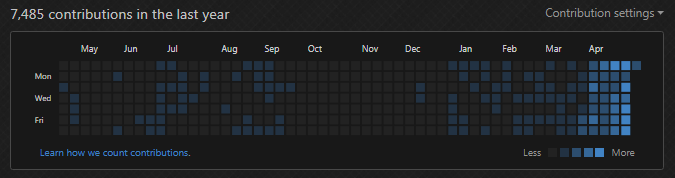
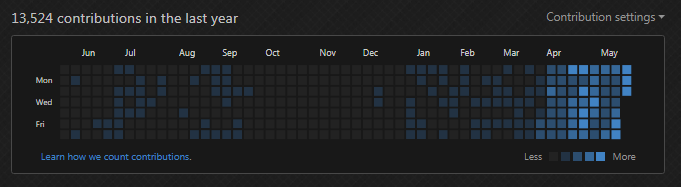
Add files via upload

diff --git a/system.js b/system.js
@@ -98,12 +98,18 @@ OneItem = function(prefix, id) {
 }
 
 // Translation system
+const LangName = {
+	"EN": "English",
+	"BR": "Português",
+	"ES": "Español"
+}
 const Translations = {
 	"EN": {
-		"me_0": "I am Tainã, also known as Tai. I am currently studying Computer Science in Brazil and after concluding the course I intend to go to Canada to master Physics and Astrophysics!",
-		"me_1": "This is my portfolio. Here you can find the programming languages I can decently code, also my biggest projects and the languages I speak nowadays.",
-		"me_2": "Go through the tabs below to know more about me and my skills.",
+		"me_0": "My name is Tainã Romani Lautenschlager Donda, also known as Lautenschlager or Tai. I am 17 and I am currently studying Computer Science at Uninove, in Brazil. I also have an informatic technician degree obtained in the educational institution ETEC Jaraguá.",
+		"me_1": "More than 3 years of experience with written translations (English and Spanish) and 2 years of experience with game and software development.",
+		"me_2": "Web and Desktop development using Lua, C#, C, Java, and JavaScript as main languages. Experienced with Wordpress websites. Game development using the platforms Microsoft XNA, Monogame, Unity (2D) and LÖVE 2D.",
 		
+		"title_me": "About me",
 		"title_prog": "Programming Languages",
 		"title_prj": "Projects",
 		"title_lang": "Idioms",
@@ -111,7 +117,7 @@ const Translations = {
 		
 		"open_source": "ALL MY PROJECTS ARE OPEN SOURCE!",
 		
-		"github": "More than 7,000 contributions in the last year on {0}!",
+		"github": "More than 10,000 contributions in the last year on {0}!",
 		"pastebin": "More than 27,000 unique views in the last two years on {0}!",
 		
 		"prj_1_0": "The game {0} was developed in C# and is based on an epic space battle with skills and different artificial intelligence enemies according to the elapsed time in game.",
@@ -128,10 +134,11 @@ const Translations = {
 		"prj_3_2": "The game is classified as a Real-Time Strategy (RTS) Indie game, because, besides the fact it's a Tower Defense (TD) game, few monetary resources were needed for its development. This game was developed in one week.",
 	},
 	"BR": {
-		"me_0": "Me chamo Tainã, também conhecido por Tai. Atualmente estudo Ciência da Computação no Brasil e depois de concluir o curso pretendo ir para o Canadá para mestrar em Física e Astrofísica!",
-		"me_1": "Este é meu portólio. Aqui você pode encontrar as linguagens de programação que posso utilizar decentemente, também meus maiores projetos e os idiomas que falo hoje em dia.",
-		"me_2": "Navegue nas abas abaixo para conhecer mais sobre mim e sobre minhas habilidades.",
+		"me_0": "Meu nome é Tainã Romani Lautenschlager Donda, também conhecido por Lautenschlager ou Tai. Tenho 17 anos e atualmente estudo Ciência da Computação na Uninove, no Brasil. Também tenho formação técnica em informática obtida pela instituição de ensino ETEC Jaraguá.",
+		"me_1": "Mais de 3 anos de experiência com traduções escritas (Inglês e Espanhol) e 2 anos de experiência com desenvolvimento de jogos e software.",
+		"me_2": "Desenvolvimento Web e Desktop com o uso de Lua, C#, C, Java e JavaScript como linguagens principais. Com experiência em sites Wordpress. Desenvolvimento de jogos utilizando as plataformas Microsoft XNA, Monogame, Unity (2D) e LÖVE 2D.",
 		
+		"title_me": "Sobre mim",
 		"title_prog": "Linguagens de Programação",
 		"title_prj": "Projetos",
 		"title_lang": "Idiomas",
@@ -139,7 +146,7 @@ const Translations = {
 		
 		"open_source": "TODOS OS MEUS PROJETOS SÃO OPEN SOURCE!",
 		
-		"github": "Mais de 7.000 contribuições no último ano no {0}!",
+		"github": "Mais de 10.000 contribuições no último ano no {0}!",
 		"pastebin": "Mais de 27.000 visualizações individuais nos últimos dois anos no {0}!",
 		
 		"prj_1_0": "O jogo {0} foi desenvolvido em C# e é baseado numa épica batalha espacial com habilidads e diferentes inimigos de inteligência artificial de acordo com o tempo de jogo.",
@@ -157,10 +164,11 @@ const Translations = {
 
 	},
 	"ES": {
-		"me_0": "Me llamo Tainã, también conocido como Tai. Actualmente estudio Ciencia de la Computación en Brasil y despues de concluir el curso pretendo ir a Canadá para hacer otros cursos de Física y Astrofísica!",
-		"me_1": "Este es mi portafolio. Acá puedes encontrar los lenguajes de programación que yo sé, también mis mayores proyectos y los idiomas que yo hablo hoy en dia.",
-		"me_2": "Vea las otras pestañas para conocer más de mí y de mis habilidades.",
+		"me_0": "Mi nombre es Tainã Romani Lautenschlager Donda, también conocido por Lautenschlager o Tai. Tengo 17 años y actualmente estoy estudiando Ciencias de la Computación en Uninove, Brasil. También tengo formación técnica en informática obtenida en la institución educativa ETEC Jaraguá.",
+		"me_1": "Más de 3 años de experiencia sobre traducción escrita (Inglés y Español) y 2 años de experiencia sobre desarrollamiento de juegos e softwares.",
+		"me_2": "Desarrollo Web y Desktop usando Lua, C#, C, Java y JavaScript como lenguajes principales. Con experiencia en sitios Wordpress. Desarrollo de juegos con las plataformas Microsoft XNA, Monogame, Unity (2D) y LÖVE 2D.",
 
+		"title_me": "Sobre mi",
 		"title_prog": "Lenguajes de Programación",
 		"title_prj": "Proyectos",
 		"title_lang": "Idiomas",
@@ -168,7 +176,7 @@ const Translations = {
 
 		"open_source": "TODOS MIS PROYECTOS SON OPEN SOURCE!",
 
-		"github": "Más de 7.000 contribuciones en el año pasado en {0}!",
+		"github": "Más de 10.000 contribuciones en el año pasado en {0}!",
 		"pastebin": "Más de 27.000 visualizaciones individuales en los dos últimos dos años en {0}!",
 
 		"prj_1_0": "El juego {0} fue desarrollado en C# y es basado en una batalla épica con habilidades y diferentes enemigos con inteligencia artificial de acuerdo con el tiempo de juego.",
@@ -185,11 +193,6 @@ const Translations = {
 		"prj_3_2": "El juego está clasificado como un juego Indie de Estrategia en Tiempo Real (RTS), porque, además del hecho de que es un juego de Tower Defense, pocos recursos monetarios fueron necesarios para su desarrollo. Este juego fue desarrollado en una semana.",
 	}
 };
-const LangName = {
-	"EN": "English",
-	"BR": "Português",
-	"ES": "Español"
-}
 
 let CurrentLanguage;
 

diff --git a/index.html b/index.html
@@ -34,7 +34,7 @@
 		<!--Tags-->
 		<div id="1">
 			<img ignore="" onclick="Tab(this);" src="content/tab_1.jpg" class="round tab">
-			<font size="15px" class="absolute">Lautenschlager</font>
+			<font size="15px" class="absolute"><span translation-index="title_me"></span></font>
 			<div class="half-squared hidden container">
 				<p><span translation-index="me_0"></span></p>
 				<p><span translation-index="me_1"></span></p>
@@ -122,7 +122,7 @@
 					<p><span translation-index="prj_3_2"></span></p>
 					
 					<div class="center">
-						<img src="content/solar-system-defense.gif" alt="Solar System System Gameplay">
+						<img src="content/solar-system-defense.gif" alt="Solar System System Gameplay" width="90%" height="90%">
 					</div>
 				</div>
 				<div id="prj_2" class="half-squared sub-container hidden">
@@ -162,7 +162,7 @@
 					<p><span translation-index="prj_1_2"></span></p>
 					
 					<div class="center">
-						<img src="content/head-wars.gif" alt="Head Wars Gameplay">
+						<img src="content/head-wars.gif" alt="Head Wars Gameplay" width="80%" height="80%">
 					</div>
 				</div>
 			</div>
